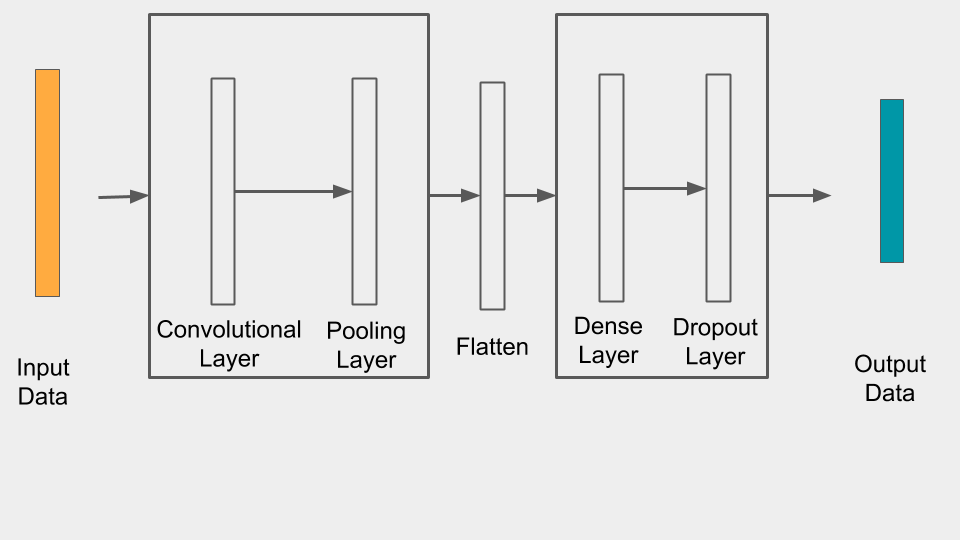
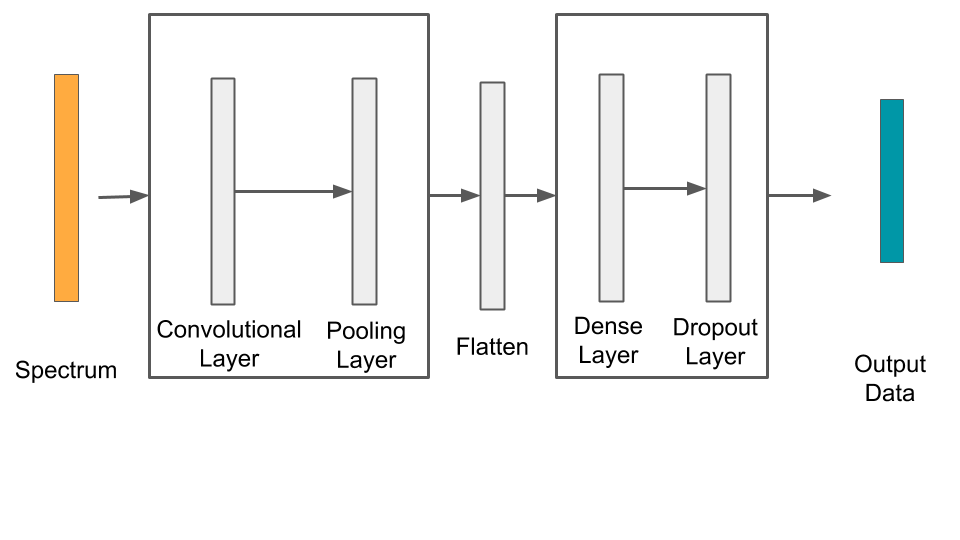
update figs

Changed region(s): [[0.0312, 0.1185, 0.0938, 0.563], [0.0, 0.6519, 0.125, 0.7704]]

diff --git a/theory.tex b/theory.tex
@@ -635,42 +635,51 @@ python setup.py install
 \end{lstlisting}
 \subsection{Dataset Generation}
 
-Datasets are generated using the process outlined in Figure \ref{fig:annsa_data_generation}. The dataset generation process begins by creating a dataset of noiseless template spectra. These templates are generated by a gamma-ray transport software and an software that simulates the response from a gamma-ray detector. The gamma-ray transport software simulates how photons from each isotope scatter in an environment to reach the detector. Examples of transport software that could be used for this are GADRAS-DRF \cite{mitchell2014}, MCNP \cite{Goorley2016}, or GEANT4 \cite{geant4}. The detector response software accounts for the calibration and Gaussian energy broadening of the detector. \verb|annsa| uses csv formatted template spectra with columns corresponding to simulation settings. An example of a row from a spectral template csv file in the format used by \verb|annsa| is shown in Figure \ref{fig:template_csv}.
+The dataset generation process begins by creating a dataset of noiseless template spectra. A gamma-ray transport software and a software that simulates the response from a gamma-ray detector generate the templates. The gamma-ray transport software simulates how photons from each isotope scatter in an environment to reach the detector. Transport software that could be used for this include GADRAS-DRF \cite{mitchell2014}, MCNP \cite{Goorley2016}, or GEANT4 \cite{geant4}. The detector response software accounts for the calibration and Gaussian energy broadening of the detector. \verb|annsa| uses csv formatted template spectra with columns corresponding to simulation settings. An example row from a spectral template csv file in the format used by \verb|annsa| is shown in Figure \ref{fig:template_csv}.
 
-Noiseless templates enable the generation of a wide variety of realistic gamma-ray spectra without rerunning computationally expensive transport software. Spectra with various source-to-background ratios can be simulated by combining source and background templates in desired amounts. Noiseless spectra can be sampled using a Poisson distribution to yield spectra with realistic counting statistics. The \verb|annsa| \verb|template_sampling| module contains a function, \verb|make_random_spectrum|, that generates source and background spectra and a function, \verb|make_uenriched_spectrum|, that generates enriched uranium spectra. These functions take a dataset of template spectra and user defined parameters to create new spectra. Using the parameters, these functions choose templates from the template dataset. Chosen templates are combined based on additional parameters like integration time, calibration, and source-to-background ratio. These spectra and machine learning target values (which isotope is in a spectrum, relative quantities of each isotope in a spectral mixture, $^{235}$U \% enrichment) can be stored and saved in a NumPy array for future machine learning training.
+\begin{figure}[H]
+	\centering
+	\includegraphics[trim=0 0 0 0,clip,width=1.0\linewidth]{images/template_csv.png}
+	\caption{Example spectral template csv entry.}
+	\label{fig:template_csv}
+\end{figure}
+
+% Datasets are generated using the process outlined in Figure \ref{fig:annsa_data_generation}
+
+A wide variety of realistic gamma-ray spectra can be generated using noiseless templates without the need to excessively run computationally expensive transport software. Spectra with various source-to-background ratios can be simulated by combining source and background templates in desired amounts. This process is displayed in Figure \ref{fig:template_sampling_diagram} for a $^{60}Co$ and background template. First, normalized template spectra generated by the transport software are scaled to the desired total expected counts in the spectrum. In this example, the signal to background ratio is $\frac{1}{5}$ and the expected total number of counts in the final spectrum is 6000. These templates are then added together and sampled using a Poisson distribution to yield spectra with realistic counting statistics. The \verb|annsa| \verb|template_sampling| module contains a function, \verb|make_random_spectrum|, that generates source and background spectra and a function, \verb|make_uenriched_spectrum|, that generates enriched uranium spectra. These functions take a dataset of template spectra and user defined parameters to create new spectra. Using the parameters, these functions choose templates from the template dataset. Chosen templates are combined based on additional parameters such as integration time, calibration, and source-to-background ratio. These spectra and machine learning target values (which isotope is in a spectrum, relative quantities of each isotope in a spectral mixture, $^{235}$U \% enrichment) are stored and saved in a NumPy array for future machine learning training.
+
+\begin{figure}[H]
+	\centering
+	\includegraphics[trim=0 0 350 0,clip,width=1.0\linewidth]{images/template_sampling_diagram.png}
+	\caption{An example of the template sampling process combining $^{60}$Co and background template spectra into a dataset entry.}
+	\label{fig:template_sampling_diagram}
+\end{figure}
 
 This workflow is designed to be flexible and allow for quick dataset prototyping. The workflow can be used for multiple gamma-ray transport and detector response software. Dataset simulation functions can be added or modified in the \verb|template_sampling| module to extend \verb|annsa|'s capabilities.
 
 % trim left bottom right top
 
+% \begin{figure}[H]
+% \centering
+% \includegraphics[trim=40 50 10 0,clip,width=0.8\linewidth]{images/annsa_data_generation.png}
+% \caption{annsa dataset generation process.}
+% \label{fig:annsa_data_generation}
+% \end{figure}
 
-
-
-\begin{figure}[H]
-\centering
-\includegraphics[trim=40 50 10 0,clip,width=1.0\linewidth]{images/annsa_data_generation.png}
-\caption{annsa dataset generation process.}
-\label{fig:annsa_data_generation}
-\end{figure}
-
-\begin{figure}[H]
-\centering
-\includegraphics[trim=0 0 0 0,clip,width=1.0\linewidth]{images/template_csv.png}
-\caption{Example spectral template csv entry.}
-\label{fig:template_csv}
-\end{figure}
 
 \subsection{Machine Learning Models}
 
-ANNSA includes Python classes in the \verb|model_classes| module that create DNNs, 1D CNNs, DAEs, and 1D CAEs. Each model inherits from the Keras model base class and a base class. The base class contains code that trains the networks. ANNSA also includes a module, \verb|load_pretrained_network|, that contains functions to load weights from pretrained autoencoders into a classification model. In this way the encoding portion of the autoencoder can be used as a pretrained feature extractor. This section outlines the architectures available in ANNSA.
+\verb|annsa| includes Python functions that build Keras models using the Keras \verb|Sequential| API. The \verb|Sequential| API allows for simple model training and saving. \verb|annsa| includes functions to build DNNs, 1D CNNs, DAEs, and 1D CAEs. This section outlines the architectures available in \verb|annsa|.
+
+% In this way the encoding portion of the autoencoder can be used as a pretrained feature extractor.  Examples of these networks being used are available at \verb|https://github.com/arfc/annsa/examples|.
 
 \subsubsection{Dense Neural Network}
 
-DNNs in ANNSA are created by stacking dense-dropout layers between user defined input and output vectors. An outline of this architecture is shown in Figure \ref{fig:annsa_dnn}. The number of dense-dropout layers and the nodes in each layer are defined by a list of nodes provided by the user. The output length is also user defined, allowing for the training of different sized isotope libraries for classification or training on a single regression target. The input vector length is also defined by the user. Additional necessary user defined parameters are shown in Table \ref{table:annsa_dnn_params}.
+DNNs in \verb|annsa| are created by stacking dense-dropout layers between user defined input and output vectors. An outline of this architecture is shown in Figure \ref{fig:annsa_dnn}. The number of dense-dropout layers and the nodes in each layer are defined by a list of nodes provided by the user. The output length is also user defined, allowing for the training of different sized isotope libraries for classification or training on a single regression target. The input vector length is also defined by the user. Additional necessary user defined parameters are shown in Table \ref{table:annsa_dnn_params}.
 
 \begin{figure}[H]
 \centering
-\includegraphics[trim=0 110 400 0,clip,width=0.6\linewidth]{images/annsa_dnn.png}
+\includegraphics[trim=0 110 380 0,clip,width=0.6\linewidth]{images/annsa_dnn.png}
 \caption{ANNSA's DNN structure.}
 \label{fig:annsa_dnn}
 \end{figure}
@@ -695,18 +704,19 @@ Output Activation \\ \hline
 
 \subsubsection{Convolutional Neural Network} \label{annsa_section_conv_neural_network}
 
-The convolution architecture included in ANNSA is based on a 1D convolution followed by a pooling operation. Two 1D convolution-pooling operations are illustrated in Figure \ref{fig:annsa_cnn_fine}. In the convolution, three filters are used. These filters will be referred to as blue, red, and green. Each filter is a vector of the same length, defined by the user. Each filter is convolved along the input and the result is placed in convolutional layer one. This process is illustrated for a single convolution using the red filter. Padding is included at the input signal edges to ensure the resulting convolution has the same length as the input. The pooling operation is indicated by a black box with a white border. Pooling is performed along the output of each filter. In this example max pooling is used with a stride of two. Max pooling takes the maximum value in the pooling length and places it in the next layer. By using a pooling stride of two, the filter is moved by two places before the pooling operation is performed, reducing the output size by a factor of two. Pooling in ANNSA includes zero padding by default to preserve the previous layer's size and to retain information at the signal's ends.
+The convolution architecture included in \verb|annsa| is based on a 1D convolution followed by a pooling operation. Two 1D convolution-pooling operations are illustrated in Figure \ref{fig:annsa_cnn_fine}. In the convolution, three filters are used. These filters will be referred to as blue, red, and green. Each filter is a vector of the same length, defined by the user. Each filter is convolved along the input and the result is placed in convolutional layer one. This process is illustrated for a single convolution using the red filter. Padding is included at the input signal edges to ensure the resulting convolution has the same length as the input. The pooling operation is indicated by a black box with a white border. Pooling is performed along the output of each filter. In this example max pooling is used with a stride of two. Max pooling takes the maximum value in the pooling length and places it in the next layer. By using a pooling stride of two, the filter is moved by two places before the pooling operation is performed, reducing the output size by a factor of two. Pooling in \verb|annsa| includes zero padding by default to preserve the previous layer's size and to retain information at the signal's ends.
+
+\begin{figure}[H]
+	\centering
+	\includegraphics[trim=0 150 40 0,clip,width=0.8\linewidth]{images/annsa_cnn_fine.png}
+	\caption{The 1D convolutional-pooling operation included in ANNSA.}
+	\label{fig:annsa_cnn_fine}
+\end{figure}
 
 Subsequent convolution-pooling layers also use 1D convolutions. In Figure \ref{fig:annsa_cnn_fine}, a second convolution operation is performed using purple and light blue filters. The filters used in each convolutional layer have a depth equal to the number of filters in the previous layer. In the example, this results in the second convolutional layer's filters having a depth of three. Each convolutional layer's filter lengths are mutually independent and defined by the user.
 
-\begin{figure}[H]
-\centering
-\includegraphics[trim=0 150 60 0,clip,width=0.8\linewidth]{images/annsa_cnn_fine.png}
-\caption{The 1D convolutional-pooling operation included in ANNSA.}
-\label{fig:annsa_cnn_fine}
-\end{figure}
 
-1D CNNs in ANNSA are created by stacking convolutional-pooling layers followed by dense-dropout layers, demonstrated in Figure \ref{fig:annsa_cnn}. The final convolutional layer's output is flattened before being used by the dense layers. Parameters related to the convolutional architecture are shown in Table \ref{table:annsa_cnn_params}. Dropout and L2 regularization are only applied to the dense layers of this network.
+1D CNNs in \verb|annsa| are created by stacking convolutional-pooling layers followed by dense-dropout layers, demonstrated in Figure \ref{fig:annsa_cnn}. The final convolutional layer's output is flattened before being used by the dense layers. Parameters related to the convolutional architecture are shown in Table \ref{table:annsa_cnn_params}. Dropout and L2 regularization are only applied to the dense layers of this network.
 
 \begin{figure}[H]
 \centering
@@ -741,9 +751,9 @@ Output Activation \\ \hline
 
 \subsubsection{Dense Autoencoder}
 
-ANNSA includes a class to create DAEs. The DAE class contains an encoder and decoder function. Both functions contain a user defined number of dense-dropout layers and nodes in each layer. Using this, encoders and decoders with different dense architectures can be constructed. Parameters required by the DAE class are shown in Table \ref{table:annsa_dae_params}. An example autoencoder with a two-hidden layer encoder, a single hidden-layer decoder, and no dropout is shown in Figure \ref{fig:annsa_dae}. By changing the input and output, autoencoders can be trained to extract various features from input signals. The final layer of the encoder, called the encoding, contains these extracted features. This example demonstrates a background subtracting denoising autoencoder: the input is a Poisson sampled source and background spectrum and the output is only the source spectrum without Poisson sampling.
+\verb|annsa| includes a class to create DAEs. The DAE class contains an encoder and decoder function. Both functions contain a user defined number of dense-dropout layers and nodes in each layer. Using this, encoders and decoders with different dense architectures can be constructed. Parameters required by the DAE class are shown in Table \ref{table:annsa_dae_params}. An example autoencoder with a two-hidden layer encoder, a single hidden-layer decoder, and no dropout is shown in Figure \ref{fig:annsa_dae}. By changing the input and output, autoencoders can be trained to extract various features from input signals. The final layer of the encoder, called the encoding, contains these extracted features. This example demonstrates a background subtracting denoising autoencoder: the input is a Poisson sampled source and background spectrum and the output is only the source spectrum without Poisson sampling.
 
-ANNSA includes a function in the \verb|load_pretrained_network| module to extract weights from the encoder of a trained DAE and load them into a classification DNN. This process is shown in Figure \ref{fig:annsa_daednn}. This pretrained network can be additionally trained in a process called fine tuning.
+\verb|annsa| includes a function in the \verb|load_pretrained_network| module to extract weights from the encoder of a trained DAE and load them into a classification DNN. This process is shown in Figure \ref{fig:annsa_daednn}. This pretrained network can be additionally trained in a process called fine tuning.
 
 \begin{figure}[H]
 \centering
@@ -782,9 +792,9 @@ Output Activation \\ \hline
 
 \subsubsection{Convolutional Autoencoder}
 
-ANNSA includes a class to create CAEs. Like the DAE, the CAE class contains an encoder and decoder function. The CAE uses parameters from the 1D CNN (Table \ref{fig:annsa_cnn}) with the exception of L2 regularization strength and dropout rate (parameters only used by dense layers). The encoder is constructed using stacked 1D convolutional-pooling layers. As with the CNNs described in section \ref{annsa_section_conv_neural_network}, the CAEs use padding to keep the input and output sizes the same when the strides parameter is set to one. In ANNSA the CAE encoder pooling strides parameter is two by default, making each convolutional-pooling layer reduce the input's length by a factor of two. The decoder uses resize-convolutional layers to increase the dimension of the encoding. The resize layer doubles the input signal's length using bilinear interpolation. The final decoding convolutional layer must have one output filter to ensure the autoencoder's output is a vector. A summary of this operation is shown in Figure \ref{fig:annsa_cae}.
+\verb|annsa| includes a class to create CAEs. Like the DAE, the CAE class contains an encoder and decoder function. The CAE uses parameters from the 1D CNN (Table \ref{fig:annsa_cnn}) with the exception of L2 regularization strength and dropout rate (parameters only used by dense layers). The encoder is constructed using stacked 1D convolutional-pooling layers. As with the CNNs described in section \ref{annsa_section_conv_neural_network}, the CAEs use padding to keep the input and output sizes the same when the strides parameter is set to one. In \verb|annsa| the CAE encoder pooling strides parameter is two by default, making each convolutional-pooling layer reduce the input's length by a factor of two. The decoder uses resize-convolutional layers to increase the dimension of the encoding. The resize layer doubles the input signal's length using bilinear interpolation. The final decoding convolutional layer must have one output filter to ensure the autoencoder's output is a vector. A summary of this operation is shown in Figure \ref{fig:annsa_cae}.
 
-Similar to the DAE, ANNSA includes a function in the \verb|load_pretrained_network| module to extract the weights from the encoder of a trained CAE into a CNN. This process is shown in Figure \ref{fig:annsa_caednn}.
+Similar to the DAE, \verb|annsa| includes a function in the \verb|load_pretrained_network| module to extract the weights from the encoder of a trained CAE into a CNN. This process is shown in Figure \ref{fig:annsa_caednn}.
 
 \begin{figure}[H]
 \centering
@@ -803,11 +813,11 @@ Similar to the DAE, ANNSA includes a function in the \verb|load_pretrained_netwo
 
 \subsection{Training}
 
-Each model was trained using a p2.8xlarge EC2 (Elastic Compute Cloud) instance on Amazon Web Services using the Deep Learning AMI (Amazon Machine Image). Training on multiple GPUs enabled simultaneous training of experiments. Jupyter notebooks used for experiments in this thesis are available at \verb|https :// github.com/arfc/annsa/examples|.
+Each model was trained using a p2.8xlarge EC2 (Elastic Compute Cloud) instance on Amazon Web Services using the Deep Learning AMI (Amazon Machine Image). Training on multiple GPUs enabled simultaneous training of experiments. Jupyter notebooks used for experiments in this thesis are available at \verb|https://github.com/arfc/annsa/examples|.
 
 
 \section{Summary}
 
-In this chapter we described the physical processes responsible for signals in gamma-ray spectrometers and how multi-layer ANNs can be trained to solve diverse tasks. We also introduced ANNSA, the Python package we developed and used to create training datasets and train a variety of machine learning models for tasks in gamma-ray spectroscopy. 
+In this chapter we described the physical processes responsible for signals in gamma-ray spectrometers and how multi-layer ANNs can be trained to solve diverse tasks. We also introduced \verb|annsa|, the Python package we developed and used to create training datasets and train a variety of machine learning models for tasks in gamma-ray spectroscopy. 
 
 In the following chapters, ANNs will be presented using these concepts and their performance on a number of real and simulated spectra will be discussed. 
